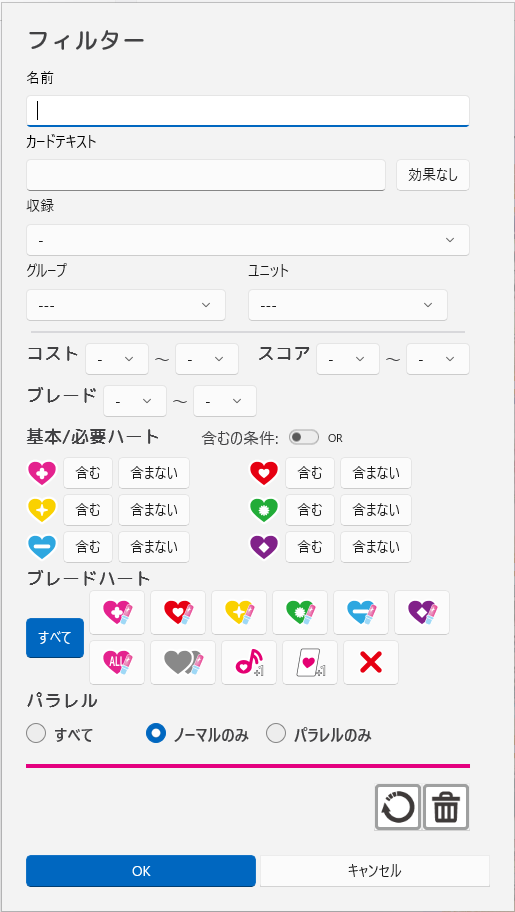
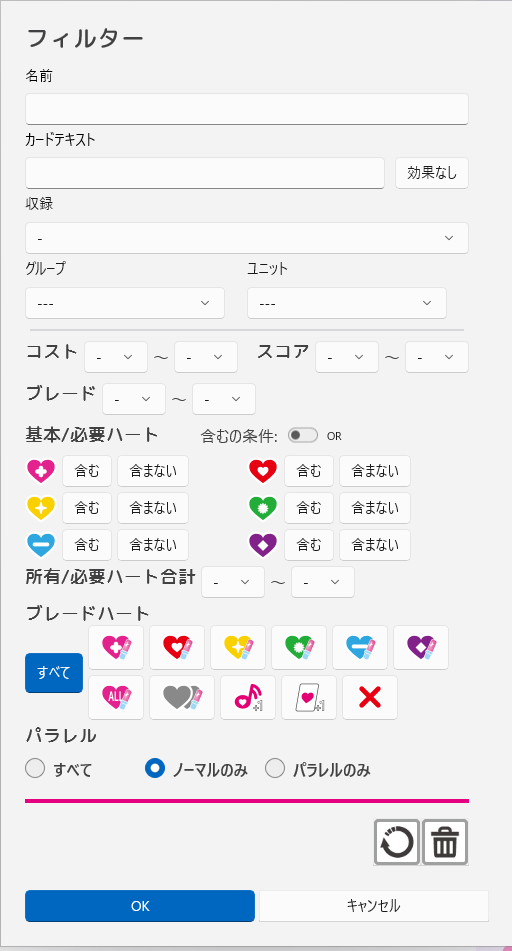
2026/09 不具合修正と機能追加 (#10)
* 画像の追加・更新

* 更新履歴と説明の更新

diff --git a/docs/Usage.md b/docs/Usage.md
@@ -111,6 +111,7 @@
 |ステータスリセットボタン<br>(ステータスパネル)|![](images/button_reset.png)|そのエリアのカードのステータスをリセットする。<br>※メンバーの下のエネルギーカード枚数は変更されない。|
 |Nextボタン|![](images/button_next.png)|次のフェイズ、ターンへ移行する。ターン開始時や終了時の処理は自動で行われる。<br>(ドロー、エネルギーアクティブ、エネルギー追加、残ったライブカードとエールカードの移動)|
 |エールボタン|![](images/button_yell.png)|1回クリックすると、メインデッキからエール領域にカードを1枚追加する。解決領域は隠される。|
+|下からエールボタン|![](images/button_yell_from_bottom.png)|1回クリックすると、メインデッキの一番下からエール領域にカードを1枚追加する。解決領域は隠される。|
 |めくるボタン|![](images/button_pick.png)|1回クリックすると、メインデッキの一番上から解決領域にカードを1枚追加する。|
 |下からめくるボタン|![](images/button_pick_bottom.png)|1回クリックすると、メインデッキの一番下から解決領域にカードを1枚追加する。|
 |クリーンボタン|![](images/button_clean.png)|解決領域とエール領域のカードをすべて控え室に移動する。|
@@ -216,6 +217,7 @@
 |フィルターボタン|![](images/button_filter_off.png)<br>![](images/button_filter_on.png)|フィルターダイアログを表示する。|
 |ソートボタン|![](images/button_sort.png)|ソートダイアログを表示する。|
 |デッキ表示ボタン|![](images/button_new_window.png)|現在のデッキの内容を新しいウィンドウで表示する。|
+|デッキソートボタン|![](images/button_sort.png)|デッキ側のソートダイアログを表示する。|
 
 ### カード一覧フィルターダイアログ
 
@@ -223,7 +225,6 @@
 
 ![](images/index_library_filter.png)
 
-- 『名前』においてメンバー名は空白なし。
 - 『カードテキスト』
     - 登場などのキーワードは［］(全角大カッコ)で括る。(例：［ライブ開始時］)
     - ハートはそれぞれ桃：🩷、赤：❤、黄：💛、緑：💚、青：💙、紫：💜、無色：🩶、ALL：💖にあたる。
@@ -243,7 +244,14 @@
 ![](images/index_library_sort.png)
 
 - デフォルトは収録商品とカード番号の順。
-- デッキ内の順序は変わらない。
+
+### デッキソートダイアログ
+
+![](images/index_deck_sort.png)
+
+- デフォルト: 収録商品とカード番号の順
+- グループ/名前: メンバーはグループ->メンバーの順、ライブはグループ->五十音順
+- コスト/スコア: メンバーはコストの高い順、ライブはスコアの高い順
 
 ### デッキ表示ウィンドウ
 

diff --git a/History.md b/History.md
@@ -1,5 +1,17 @@
 # 更新履歴
 
+## 1.2.2120.0
+
+- [Updated] 2026/08までのPRカードを追加
+- [Changed] デッキの下からエールする機能を追加
+- [Fixed] バトンタッチ時にメンバー下のカードが控え室に正しく送られない不具合を修正
+- [Fixed] メンバー下のカード一覧をスクロールに対応
+- [Changed] 一部UIの変更
+- [Changed] デッキ編成画面でデッキ内の並び替え機能を追加
+- [Changed] 詳細パネルで所有/必要ハートのみ表示されるように変更
+- [Changed] 「ターン3回」キーワードに対応
+- [Fixed] スタートデッキcheerのカード番号(レアリティ)の誤りを修正
+
 ## 1.2.2008.0
 
 - [Updated] 「ブースターパック MELLOW MOMENT」のカードを追加
